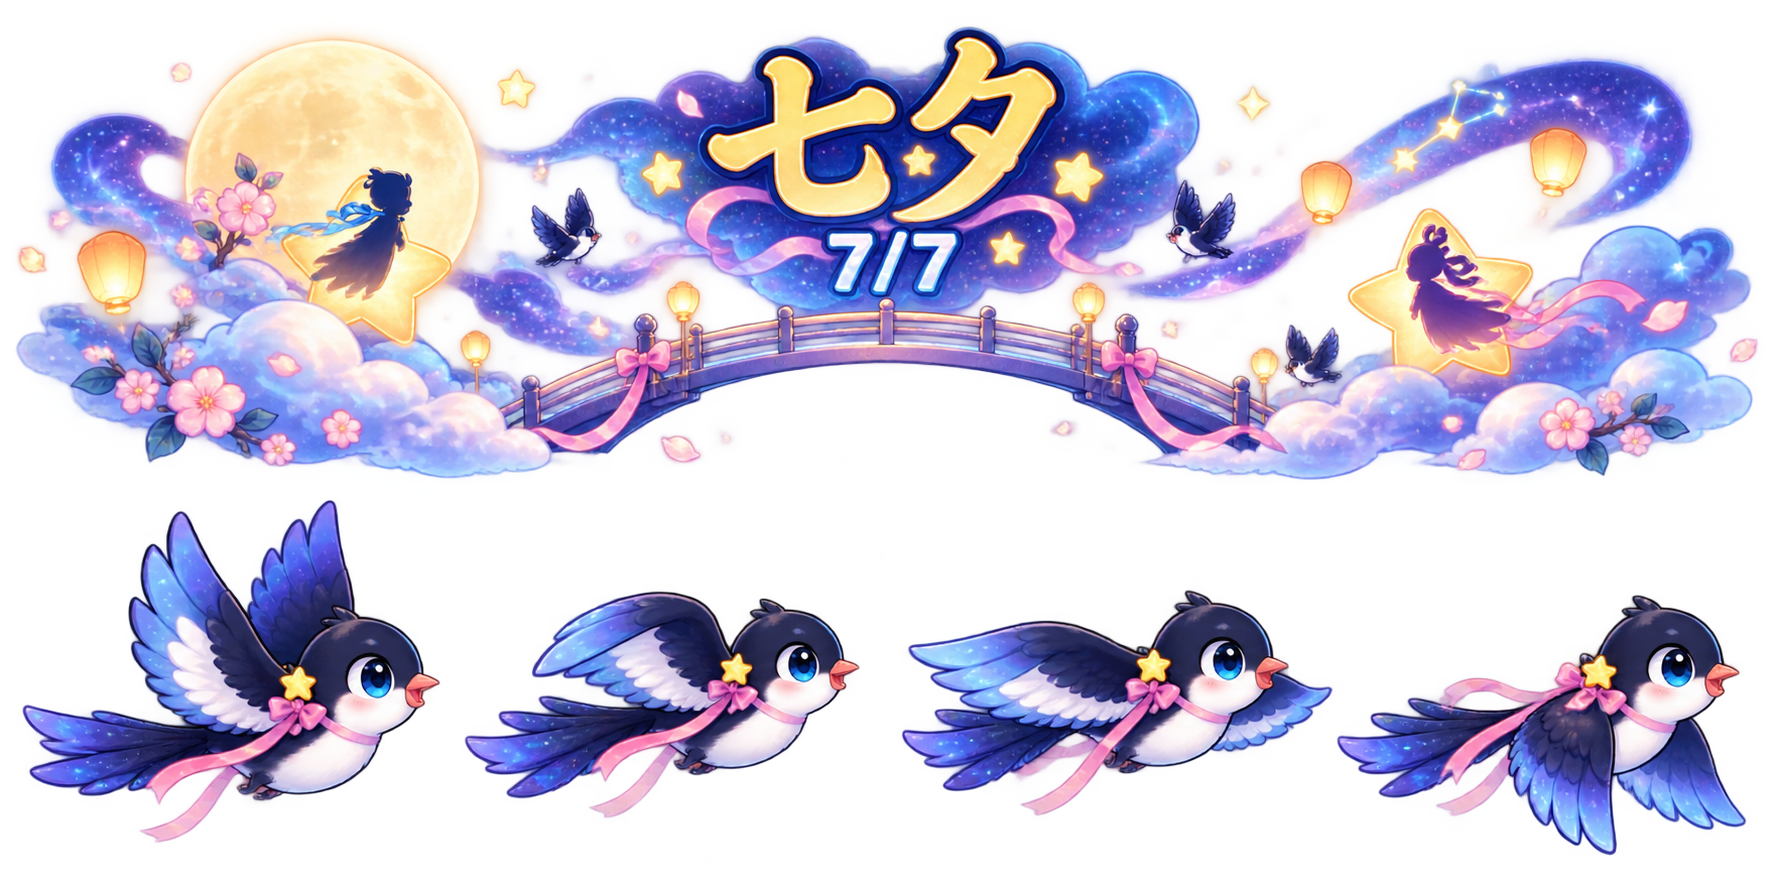
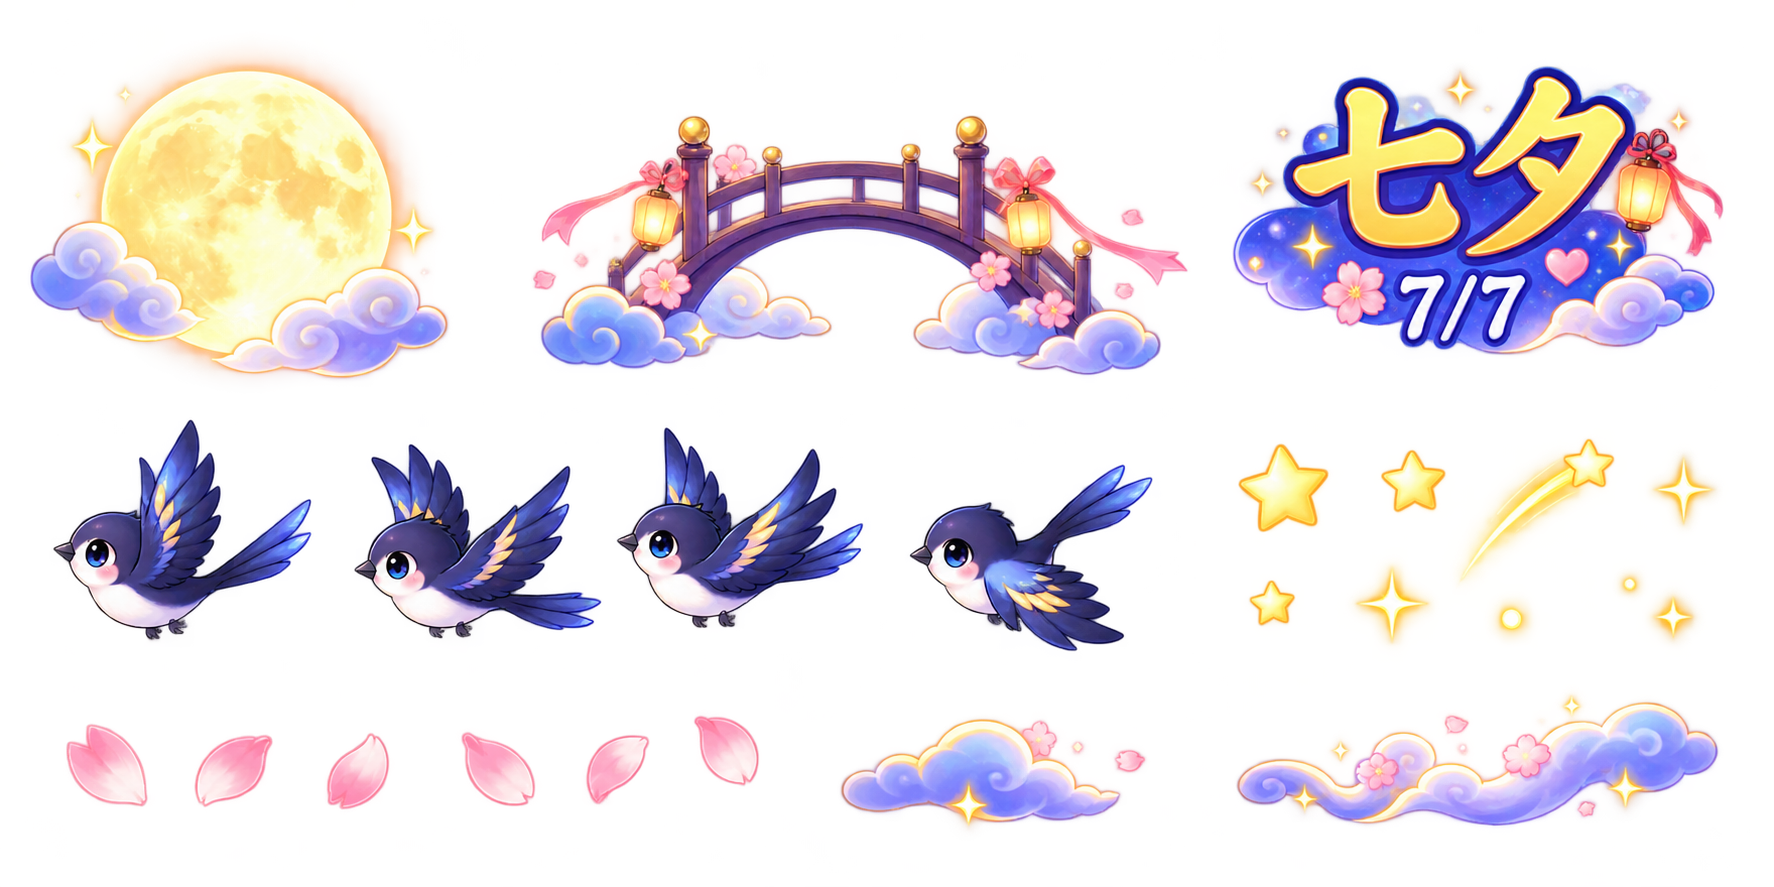
Refactor code structure for improved readability and maintainability

diff --git a/app/src/main/java/com/batterybuddy/event/EventEnvironmentView.kt b/app/src/main/java/com/batterybuddy/event/EventEnvironmentView.kt
@@ -7,13 +7,13 @@ import android.graphics.BitmapFactory
 import android.graphics.Canvas
 import android.graphics.Color
 import android.graphics.Paint
+import android.graphics.Rect
 import android.graphics.RectF
 import android.util.AttributeSet
 import android.view.View
 import android.view.animation.LinearInterpolator
 import com.batterybuddy.R
 import com.batterybuddy.weather.WeatherCondition
-import kotlin.math.min
 import kotlin.math.sin
 
 class EventEnvironmentView @JvmOverloads constructor(
@@ -40,17 +40,18 @@ class EventEnvironmentView @JvmOverloads constructor(
     private val weatherPaint = Paint(Paint.ANTI_ALIAS_FLAG).apply {
         strokeCap = Paint.Cap.ROUND
     }
+    private val sourceRect = Rect()
     private val drawRect = RectF()
-    private val background: Bitmap by lazy {
-        BitmapFactory.decodeResource(resources, R.drawable.qixi_background)
-    }
+    private val badge: Bitmap by lazy { decode(R.drawable.qixi_badge) }
+    private val sparkles: Bitmap by lazy { decode(R.drawable.qixi_sparkles) }
+    private val petals: Bitmap by lazy { decode(R.drawable.qixi_petals) }
     private val magpieFrames: List<Bitmap> by lazy {
         listOf(
             R.drawable.qixi_magpie_01,
             R.drawable.qixi_magpie_02,
             R.drawable.qixi_magpie_03,
             R.drawable.qixi_magpie_04
-        ).map { resourceId -> BitmapFactory.decodeResource(resources, resourceId) }
+        ).map(::decode)
     }
 
     private var animationProgress = 0f
@@ -89,29 +90,124 @@ class EventEnvironmentView @JvmOverloads constructor(
     }
 
     private fun drawQixiEnvironment(canvas: Canvas, density: Float) {
-        val backgroundAspectRatio = background.width.toFloat() / background.height
-        val maxBackgroundWidth = min(
-            width * 0.52f,
-            height * 0.88f * backgroundAspectRatio
+        val twinkle = 0.82f + sin(animationProgress * 2f * Math.PI).toFloat() * 0.18f
+
+        bitmapPaint.alpha = (78 * twinkle).toInt()
+        drawBitmapByWidth(
+            canvas = canvas,
+            bitmap = sparkles,
+            widthPx = height * 1.35f,
+            centerX = width * 0.36f,
+            bottom = height * 0.82f
         )
-        val backgroundHeight = maxBackgroundWidth * background.height / background.width
-        val left = (width - maxBackgroundWidth) / 2f
-        val top = (height - backgroundHeight) / 2f
-        drawRect.set(left, top, left + maxBackgroundWidth, top + backgroundHeight)
-        bitmapPaint.alpha = 225
-        canvas.drawBitmap(background, null, drawRect, bitmapPaint)
+        bitmapPaint.alpha = (58 * twinkle).toInt()
+        drawBitmapByWidth(
+            canvas = canvas,
+            bitmap = sparkles,
+            widthPx = height * 1.05f,
+            centerX = width * 0.72f,
+            bottom = height * 0.88f
+        )
+
+        drawQixiPetals(canvas)
+
+        bitmapPaint.alpha = 92
+        drawBitmapByHeight(
+            canvas = canvas,
+            bitmap = badge,
+            heightPx = height * 0.36f,
+            centerX = width * 0.54f,
+            bottom = height * 0.78f
+        )
 
         val frameIndex = (animationProgress * magpieFrames.size)
             .toInt()
             .coerceAtMost(magpieFrames.lastIndex)
         val magpie = magpieFrames[frameIndex]
-        val magpieSize = (height * 0.28f).coerceAtLeast(10f * density)
-        val x = -magpieSize + animationProgress * (width + magpieSize * 2f)
-        val y = height * 0.10f + sin(animationProgress * 4f * Math.PI).toFloat() * 2f * density
-        drawRect.set(x, y, x + magpieSize, y + magpieSize)
-        bitmapPaint.alpha = 235
+        val magpieHeight = (height * 0.30f).coerceAtLeast(6f * density)
+        val magpieWidth = magpieHeight * magpie.width / magpie.height
+        val x = -magpieWidth + animationProgress * (width + magpieWidth * 2f)
+        val centerY = height * 0.42f + sin(animationProgress * 4f * Math.PI).toFloat() * density
+        drawRect.set(
+            x,
+            centerY - magpieHeight / 2f,
+            x + magpieWidth,
+            centerY + magpieHeight / 2f
+        )
+        bitmapPaint.alpha = 118
         canvas.drawBitmap(magpie, null, drawRect, bitmapPaint)
         bitmapPaint.alpha = 255
+    }
+
+    private fun decode(resourceId: Int): Bitmap =
+        BitmapFactory.decodeResource(resources, resourceId)
+
+    private fun drawBitmapByWidth(
+        canvas: Canvas,
+        bitmap: Bitmap,
+        widthPx: Float,
+        centerX: Float,
+        bottom: Float
+    ) {
+        val heightPx = widthPx * bitmap.height / bitmap.width
+        drawRect.set(
+            centerX - widthPx / 2f,
+            bottom - heightPx,
+            centerX + widthPx / 2f,
+            bottom
+        )
+        canvas.drawBitmap(bitmap, null, drawRect, bitmapPaint)
+    }
+
+    private fun drawBitmapByHeight(
+        canvas: Canvas,
+        bitmap: Bitmap,
+        heightPx: Float,
+        centerX: Float,
+        bottom: Float
+    ) {
+        val widthPx = heightPx * bitmap.width / bitmap.height
+        drawRect.set(
+            centerX - widthPx / 2f,
+            bottom - heightPx,
+            centerX + widthPx / 2f,
+            bottom
+        )
+        canvas.drawBitmap(bitmap, null, drawRect, bitmapPaint)
+    }
+
+    private fun drawQixiPetals(canvas: Canvas) {
+        val sourcePetalCount = 6
+        val visiblePetalCount = 3
+        val frameWidth = petals.width / sourcePetalCount
+        val petalHeight = height * 0.075f
+        val petalWidth = petalHeight * frameWidth / petals.height
+
+        repeat(visiblePetalCount) { index ->
+            val phase = (animationProgress * 0.48f + index * 0.31f) % 1f
+            val baseX = width * PETAL_X_FRACTIONS[index]
+            val driftX = sin((phase * 2f + index) * Math.PI).toFloat() * width * 0.012f
+            val centerX = baseX + driftX
+            val centerY = -petalHeight + phase * (height + petalHeight * 2f)
+
+            sourceRect.set(
+                index * frameWidth,
+                0,
+                (index + 1) * frameWidth,
+                petals.height
+            )
+            drawRect.set(
+                centerX - petalWidth / 2f,
+                centerY - petalHeight / 2f,
+                centerX + petalWidth / 2f,
+                centerY + petalHeight / 2f
+            )
+            bitmapPaint.alpha = 56
+            canvas.save()
+            canvas.rotate(-12f + index * 10f + phase * 18f, centerX, centerY)
+            canvas.drawBitmap(petals, sourceRect, drawRect, bitmapPaint)
+            canvas.restore()
+        }
     }
 
     private fun drawWeather(canvas: Canvas, density: Float) {
@@ -132,7 +228,7 @@ class EventEnvironmentView @JvmOverloads constructor(
     private fun drawRain(canvas: Canvas, density: Float, count: Int) {
         weatherPaint.style = Paint.Style.STROKE
         weatherPaint.color = Color.parseColor("#A8D6FF")
-        weatherPaint.alpha = 190
+        weatherPaint.alpha = if (environment == EventEnvironment.QIXI) 115 else 190
         weatherPaint.strokeWidth = 1.1f * density
         repeat(count) { index ->
             val phase = (animationProgress * 6f + index * 0.173f) % 1f
@@ -146,7 +242,7 @@ class EventEnvironmentView @JvmOverloads constructor(
     private fun drawWind(canvas: Canvas, density: Float) {
         weatherPaint.style = Paint.Style.STROKE
         weatherPaint.color = Color.parseColor("#B9EDFF")
-        weatherPaint.alpha = 170
+        weatherPaint.alpha = if (environment == EventEnvironment.QIXI) 105 else 170
         weatherPaint.strokeWidth = density
         repeat(5) { index ->
             val phase = (animationProgress * 2.5f + index * 0.23f) % 1f
@@ -160,7 +256,7 @@ class EventEnvironmentView @JvmOverloads constructor(
     private fun drawSnow(canvas: Canvas, density: Float) {
         weatherPaint.style = Paint.Style.FILL
         weatherPaint.color = Color.WHITE
-        weatherPaint.alpha = 220
+        weatherPaint.alpha = if (environment == EventEnvironment.QIXI) 135 else 220
         repeat(14) { index ->
             val phase = (animationProgress * 1.8f + index * 0.137f) % 1f
             val x = width * ((index * 0.379f) % 1f)
@@ -178,6 +274,7 @@ class EventEnvironmentView @JvmOverloads constructor(
 
     companion object {
         private const val ANIMATION_DURATION_MS = 6_000L
+        private val PETAL_X_FRACTIONS = floatArrayOf(0.28f, 0.58f, 0.82f)
 
         fun desiredHeightPx(context: Context): Int {
             val density = context.resources.displayMetrics.density

diff --git a/tools/extract_qixi_environment.py b/tools/extract_qixi_environment.py
@@ -1,16 +1,12 @@
 #!/usr/bin/env python3
-"""Extract the Qixi backdrop and four-frame magpie flight cycle."""
+"""Extract Qixi ambient status-bar decorations and magpie flight frames."""
 
+from dataclasses import dataclass
 from pathlib import Path
 
 from PIL import Image, ImageDraw, ImageFont
 
-from extract_pet_sprites import isolate_largest_component, normalize
-
-
-BACKGROUND_BOTTOM = 480
-BACKGROUND_WIDTH = 1024
-MAGPIE_COLUMNS = 4
+from extract_pet_sprites import create_contact_sheet
 
 
 def trim_transparency(image: Image.Image) -> Image.Image:
@@ -20,25 +16,64 @@ def trim_transparency(image: Image.Image) -> Image.Image:
     return image.crop(bounds)
 
 
-def create_preview(
-    background: Image.Image,
-    magpies: list[Image.Image],
-    output_path: Path,
-) -> None:
-    width = 1280
-    background_height = round(width * background.height / background.width)
-    label_height = 32
-    canvas = Image.new("RGB", (width, background_height + 320 + label_height), (35, 39, 47))
+@dataclass(frozen=True)
+class QixiAsset:
+    name: str
+    crop: tuple[int, int, int, int]
+
+
+ASSETS = (
+    QixiAsset("qixi_moon", (0, 0, 465, 390)),
+    QixiAsset("qixi_bridge", (500, 70, 1145, 355)),
+    QixiAsset("qixi_badge", (1255, 35, 1765, 355)),
+    QixiAsset("qixi_sparkles", (1240, 390, 1765, 685)),
+    QixiAsset("qixi_petals", (55, 720, 755, 845)),
+    QixiAsset("qixi_cloud_01", (850, 705, 1225, 850)),
+    QixiAsset("qixi_cloud_02", (1250, 690, 1765, 860)),
+    QixiAsset("qixi_magpie_01", (0, 390, 330, 685)),
+    QixiAsset("qixi_magpie_02", (350, 395, 615, 690)),
+    QixiAsset("qixi_magpie_03", (645, 390, 905, 690)),
+    QixiAsset("qixi_magpie_04", (890, 420, 1165, 690)),
+)
+
+
+def fit_inside(image: Image.Image, max_width: int, max_height: int) -> Image.Image:
+    scale = min(max_width / image.width, max_height / image.height, 1.0)
+    width = max(1, round(image.width * scale))
+    height = max(1, round(image.height * scale))
+    return image.resize((width, height), Image.Resampling.LANCZOS)
+
+
+def create_preview(outputs: list[tuple[str, Image.Image]], output_path: Path) -> None:
+    columns = 4
+    cell_width = 320
+    cell_height = 220
+    label_height = 28
+    rows = (len(outputs) + columns - 1) // columns
+    canvas = Image.new(
+        "RGB",
+        (columns * cell_width, rows * (cell_height + label_height)),
+        (35, 39, 47),
+    )
     draw = ImageDraw.Draw(canvas)
     font = ImageFont.load_default(size=18)
 
-    backdrop = background.resize((width, background_height), Image.Resampling.LANCZOS)
-    canvas.paste(backdrop, (0, 0), backdrop)
-    for index, magpie in enumerate(magpies):
-        canvas.paste(magpie, (index * 320, background_height), magpie)
+    for index, (name, sprite) in enumerate(outputs):
+        column = index % columns
+        row = index // columns
+        x = column * cell_width
+        y = row * (cell_height + label_height)
+        checker = Image.new("RGB", (cell_width, cell_height), (245, 245, 245))
+        checker.paste((225, 225, 225), (0, cell_height // 2, cell_width, cell_height))
+        checker.paste((225, 225, 225), (cell_width // 2, 0, cell_width, cell_height // 2))
+        preview = fit_inside(sprite, cell_width - 20, cell_height - 20)
+        paste_x = x + (cell_width - preview.width) // 2
+        paste_y = y + (cell_height - preview.height) // 2
+        checker.paste(preview, (paste_x - x, paste_y - y), preview)
+        canvas.paste(checker, (x, y))
         draw.text(
-            (index * 320 + 8, background_height + 320 + 6),
-            f"qixi_magpie_{index + 1:02d}",
+            (x + 8, y + cell_height + 5),
+            name,
             fill=(255, 255, 255),
             font=font,
         )
@@ -54,26 +89,20 @@ def main() -> None:
     preview_path = project_root / "artifacts/qixi-environment-contact-sheet.png"
 
     source = Image.open(source_path).convert("RGBA")
-    background = trim_transparency(source.crop((0, 0, source.width, BACKGROUND_BOTTOM)))
-    background_height = round(BACKGROUND_WIDTH * background.height / background.width)
-    background = background.resize(
-        (BACKGROUND_WIDTH, background_height),
-        Image.Resampling.LANCZOS,
+    outputs: list[tuple[str, Image.Image]] = []
+
+    for asset in ASSETS:
+        sprite = trim_transparency(source.crop(asset.crop))
+        sprite.save(output_dir / f"{asset.name}.png", optimize=True)
+        outputs.append((asset.name, sprite))
+
+    create_preview(outputs, preview_path)
+    create_contact_sheet(
+        [(name, fit_inside(sprite, 288, 288)) for name, sprite in outputs],
+        project_root / "artifacts/qixi-environment-normalized-contact-sheet.png",
+        columns=4,
     )
-    background.save(output_dir / "qixi_background.png", optimize=True)
-
-    magpie_area = source.crop((0, BACKGROUND_BOTTOM, source.width, source.height))
-    magpies: list[Image.Image] = []
-    overlap = 8
-    for column in range(MAGPIE_COLUMNS):
-        left = max(0, round(column * source.width / MAGPIE_COLUMNS) - overlap)
-        right = min(source.width, round((column + 1) * source.width / MAGPIE_COLUMNS) + overlap)
-        magpie = normalize(isolate_largest_component(magpie_area.crop((left, 0, right, magpie_area.height))))
-        magpie.save(output_dir / f"qixi_magpie_{column + 1:02d}.png", optimize=True)
-        magpies.append(magpie)
-
-    create_preview(background, magpies, preview_path)
-    print(f"Exported Qixi background and {len(magpies)} magpie frames to {output_dir}")
+    print(f"Exported {len(outputs)} Qixi ambient assets to {output_dir}")
     print(f"Contact sheet: {preview_path}")
 
 
